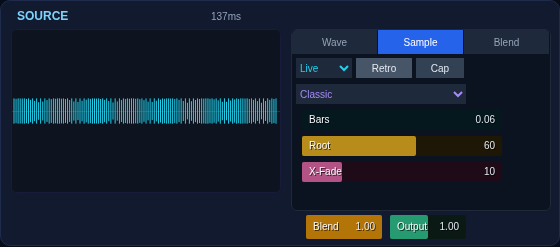
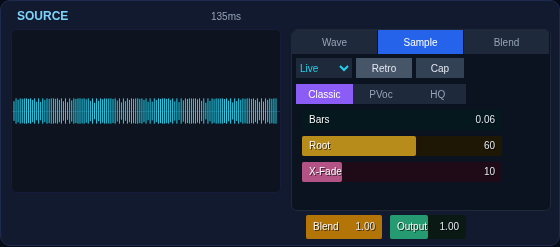
Match Main Source segmented controls to original panel

diff --git a/web/public/main-looper-review.html b/web/public/main-looper-review.html
@@ -6,7 +6,7 @@
 <header><div class="eyebrow">Manifold v2 / correction checkpoint / 27 September 2026</div><h1>Main looper port:<br>what is actually here.</h1><p>The earlier link opened a standalone looper study, and I called it the Main instrument. That was inaccurate. This page tracks the original looper behaviors and the Live and layer Sample source connections already wired through Rust, alongside the Main instrument work still missing.</p><div class="links"><a href="/main-looper.html">Open the live looper port →</a><a href="/manifold-total-progress.html">Total progress</a><a href="/?primitive=loop-capture">Earlier loop primitive</a></div></header>
 <section><div class="figure"><img src="/main-looper-live.png" alt="Current browser looper port with Main voice bank source and four looper strips"></div><div class="caption">Current Chromium capture: the Main Rust voice bank feeds the same audio callback and four capture rings as the looper. This is a port in progress, not the complete historical Main instrument.</div></section>
 <section><h2>Capture plane correction</h2><p>The nine regions still run from 16 bars on the left to 1/16 bar on the right. Within each region, older audio is now drawn at its left edge and newer audio at its right edge. The previous browser mapping reversed the samples inside every region. A direct Wasm probe feeds 500 loud samples followed by 500 quiet samples. It confirms the first 1/16-bar bins are loud, the last bins are quiet, and the adjoining older region is empty. After a commit, the loop head remains loud and its tail remains quiet: the saved PCM has the same order as the display.</p><div class="figure"><img src="/main-looper-narrow.png" alt="The complete 1280 by 720 looper panel scaled into a 900 pixel browser window without clipping any capture region"></div><div class="caption">At 900 px the full original-size panel scales together; its transport, nine capture regions, and four layer strips remain aligned and visible.</div><p>Exact local address: <a href="http://127.0.0.1:4173/main-looper.html">http://127.0.0.1:4173/main-looper.html</a>. The path ends in <code>main-looper.html</code>; the site root opens the separate workbench.</p></section>
-<section><h2>Source module checkpoint: Wave, Sample, Blend</h2><p>The Source module now uses the original 560-pixel panel geometry: graph on the left, Wave/Sample/Blend tabs on the right, and compact slider controls from Manifold’s Lua widget renderer. Live taps dry input. L1–L4 tap each loop after its playback gate and before volume gain. Retro or Free Cap publishes a validated stereo sample to the Rust eight-voice bank. The graph reads bounded peaks from that actual sample; Wave and Blend controls target the Rust oscillator and blend modes.</p><div class="figure"><img src="/main-source-panel.png" alt="Original-style Source module with captured waveform, Sample controls and compact sliders"></div><div class="caption">Source module after Live capture: the graph displays the frozen Rust sample, while Bars, Root, X-Fade, Blend and Output use the compact slider port.</div><div class="figure"><img src="/main-live-sample.png" alt="Main looper and Source module after Live Sample capture"></div><div class="caption">The Source and four-layer looper use one Rust/Wasm audio path. The module is a working subset of the old MidiSynth rack, which remains incomplete.</div><div class="figure"><img src="/main-layer-sample.png" alt="Main looper port with L1 selected and its playback captured into the Sample voice"></div><div class="caption">The same Cap path with L1 selected. Rust tests check that the sampled PCM follows gate mute and ignores layer volume.</div><p>Try it: choose Test tone or a file as Dry input, start audio, set Bars to 1/16, click Cap with Live selected, then play a piano key. Commit a loop into L1, choose L1 in the Sample source menu, and click Cap again. Blend moves to the Sample side when capture completes.</p></section>
+<section><h2>Source module checkpoint: Wave, Sample, Blend</h2><p>The Source module now uses the original 560-pixel panel geometry: graph on the left, Wave/Sample/Blend tabs on the right, segmented Wave/Sample/Blend selectors, and compact slider controls from Manifold’s Lua widget renderer. Live taps dry input. L1–L4 tap each loop after its playback gate and before volume gain. Retro or Free Cap publishes a validated stereo sample to the Rust eight-voice bank. The graph reads bounded peaks from that actual sample; Wave and Blend controls target the Rust oscillator and blend modes.</p><div class="figure"><img src="/main-source-panel.png" alt="Original-style Source module with captured waveform, Sample controls and compact sliders"></div><div class="caption">Source module after Live capture: the graph displays the frozen Rust sample, while Bars, Root, X-Fade, Blend and Output use the compact slider port.</div><div class="figure"><img src="/main-live-sample.png" alt="Main looper and Source module after Live Sample capture"></div><div class="caption">The Source and four-layer looper use one Rust/Wasm audio path. The module is a working subset of the old MidiSynth rack, which remains incomplete.</div><div class="figure"><img src="/main-layer-sample.png" alt="Main looper port with L1 selected and its playback captured into the Sample voice"></div><div class="caption">The same Cap path with L1 selected. Rust tests check that the sampled PCM follows gate mute and ignores layer volume.</div><p>Try it: choose Test tone or a file as Dry input, start audio, set Bars to 1/16, click Cap with Live selected, then play a piano key. Commit a loop into L1, choose L1 in the Sample source menu, and click Cap again. Blend moves to the Sample side when capture completes.</p></section>
 <section><h2>Free Sample recording</h2><p>Free mode uses two presses of the original Cap control. The first marks the selected source and shows STOP with an elapsed-length readout; the second captures only the audio recorded since that press. The Rust capture keeps the original source even if selection changes, and caps long recordings to the prepared ring.</p><div class="figure"><img src="/main-free-recording.png" alt="L1 Free sample recording in progress with red STOP button and elapsed milliseconds"></div><div class="caption">L1 Free recording in Chromium with the elapsed duration visible.</div><div class="figure"><img src="/main-free-sample.png" alt="L1 Free sample completed with captured duration and Sample blend selected"></div><div class="caption">The second press published the L1 span to the Rust voice bank. Direct Wasm playback and native timing tests cover the signal path.</div></section>
 <section><h2>What is connected</h2><div class="grid"><div class="card"><strong>First Loop</strong><span>REC measures the selected layer’s input span. Stop infers legal bars and BPM nearest the Target value, then commits audio to that layer.</span></div><div class="card"><strong>Retrospective capture</strong><span>All four layers keep 30 seconds of input. The nine bar regions select recent history without a preceding REC action.</span></div><div class="card"><strong>Four playable layers</strong><span>Independent loop PCM, position, volume, mute, signed speed/reverse, seek/scrub, play/pause, and clear. Dry input and loop output mix as in Main.</span></div><div class="card"><strong>Other modes and persistence</strong><span>Free Mode quantizes at the current tempo. Traditional arms a segment for explicit fire. Both commit-based overdub length policies are in Rust. Session JSON saves four loops and controls for same-rate reopen.</span></div></div></section>
 <section><h2>Try the connected path</h2><ol class="steps"><li>Open the live port with Dry input set to None and start audio. Hold a piano key, then release it.</li><li>Click the 1/16 segment to make a retrospective loop from that note. Select another layer and repeat with a different note.</li><li>Select Test tone before starting audio again. Press REC for roughly one second, then press it again. First Loop infers BPM near Target and fills the active layer.</li><li>Select another layer, click 1/4, and hear recent input loop beside the first layer. Traditional mode arms a segment for the separate Commit armed action.</li><li>Download a session, restart audio, then open the file at the same sample rate. Waveform scrubbing, signed speed, mute, and per-layer play controls are available.</li></ol></section>

diff --git a/web/src/main-looper.js b/web/src/main-looper.js
@@ -26,6 +26,16 @@ const layerControl = (layer, id, value) => post({ type: 'layer-control', layer, 
 const command = (id, value = 0) => post({ type: 'command', id, value });
 const synthNote = (kind, note = 0, velocity = 0) => post({ type: 'synth-note', kind, note, velocity });
 const synthParameter = (id, value) => post({ type: 'synth-parameter', id, value });
+const selectedSegment = id => Number($(id).querySelector('[aria-pressed="true"]').dataset.value);
+function wireSegments(id, change) {
+  const group = $(id);
+  group.addEventListener('click', ({ target }) => {
+    const button = target.closest('button[data-value]');
+    if (!button || !group.contains(button)) return;
+    for (const option of group.querySelectorAll('button[data-value]')) option.setAttribute('aria-pressed', String(option === button));
+    change(Number(button.dataset.value));
+  });
+}
 
 const sampleBars = mountCompactSlider($('sample-bars'), { label: 'Bars', min: .0625, max: 16,
   step: .0625, value: 1, style: { colour: '#22d3ee', bg: '#08212a' } });
@@ -549,14 +559,14 @@ async function start() {
     synthParameter(0, Number($('synth-wave').value));
     synthParameter(1, sampleBlendValue * 2 - 1);
     synthParameter(2, 60);
-    synthParameter(3, Number($('blend-keytrack').value));
+    synthParameter(3, selectedSegment('blend-keytrack'));
     synthParameter(4, 0);
-    synthParameter(5, Number($('sample-pitch-mode').value));
+    synthParameter(5, selectedSegment('sample-pitch-mode'));
     synthParameter(6, Number($('blend-mode').value));
     synthParameter(7, .5);
     synthParameter(15, 1);
     synthParameter(16, 1);
-    synthParameter(19, $('wave-render-mode').classList.contains('add') ? 1 : 0);
+    synthParameter(19, selectedSegment('wave-render-mode'));
     synthParameter(20, .1);
     if (sourceKind === 'microphone') {
       stream = await navigator.mediaDevices.getUserMedia({ audio: { echoCancellation: false, noiseSuppression: false, autoGainControl: false } });
@@ -602,19 +612,14 @@ async function stop() {
 $('audio-button').onclick = start;
 $('source').onchange = () => { $('file-label').hidden = $('source').value !== 'file'; $('pitch-label').hidden = $('source').value !== 'oscillator'; };
 $('synth-wave').onchange = () => { synthParameter(0, Number($('synth-wave').value)); drawSourceGraph(); };
-$('wave-render-mode').onclick = () => {
-  const add = $('wave-render-mode').classList.toggle('add');
-  $('wave-render-mode').textContent = add ? 'Add' : 'Std';
-  synthParameter(19, add ? 1 : 0);
-};
-$('sample-pitch-mode').onchange = () => {
-  const mode = Number($('sample-pitch-mode').value);
+wireSegments('wave-render-mode', mode => synthParameter(19, mode));
+wireSegments('sample-pitch-mode', mode => {
   synthParameter(5, mode);
   $('sample-stretch').hidden = mode === 0;
   requestAnimationFrame(paintSampleSliders);
-};
+});
 $('blend-mode').onchange = () => synthParameter(6, Number($('blend-mode').value));
-$('blend-keytrack').onchange = () => synthParameter(3, Number($('blend-keytrack').value));
+wireSegments('blend-keytrack', mode => synthParameter(3, mode));
 $('pitch').onchange = () => { if (sourceNode?.frequency) sourceNode.frequency.setTargetAtTime(Math.max(60, Math.min(1200, Number($('pitch').value))), context.currentTime, .01); };
 $('mode').onchange = () => control(project.controls.mode, Number($('mode').value));
 $('tempo').onchange = () => control(project.controls.tempo, Number($('tempo').value));

diff --git a/web/main-looper.html b/web/main-looper.html
@@ -13,16 +13,16 @@
           <div class="source-tabbar" role="tablist" aria-label="Source sections"><button type="button" data-source-tab="wave" role="tab">Wave</button><button type="button" data-source-tab="sample" role="tab" aria-selected="true">Sample</button><button type="button" data-source-tab="blend" role="tab">Blend</button></div>
           <div id="source-wave-panel" class="source-tabpage" hidden>
             <select id="synth-wave" aria-label="Wave shape"><option value="0">Sine</option><option value="1">Saw</option><option value="2">Square</option><option value="3">Triangle</option><option value="4">Blend</option></select>
-            <button id="wave-render-mode" type="button">Std</button>
+            <div id="wave-render-mode" class="source-segments" role="group" aria-label="Wave render mode"><button type="button" data-value="0" aria-pressed="true">Std</button><button type="button" data-value="1" aria-pressed="false">Add</button></div>
           </div>
           <div id="source-sample-panel" class="source-tabpage">
             <div class="sample-source" aria-label="Main Sample capture"><select id="sample-source-select" aria-label="Sample source"><option value="0">Live</option><option value="1">L1</option><option value="2">L2</option><option value="3">L3</option><option value="4">L4</option></select><button id="sample-mode" type="button" aria-label="Sample capture mode">Retro</button><button id="sample-cap" type="button">Cap</button></div>
-            <select id="sample-pitch-mode" aria-label="Sample pitch mode"><option value="0">Classic</option><option value="1">PVoc</option><option value="2">HQ</option></select>
+            <div id="sample-pitch-mode" class="source-segments" role="group" aria-label="Sample pitch mode"><button type="button" data-value="0" aria-pressed="true">Classic</button><button type="button" data-value="1" aria-pressed="false">PVoc</button><button type="button" data-value="2" aria-pressed="false">HQ</button></div>
             <div id="sample-bars" class="source-slider"></div><div id="sample-root" class="source-slider"></div><div id="sample-xfade" class="source-slider"></div><div id="sample-stretch" class="source-slider" hidden></div>
           </div>
           <div id="source-blend-panel" class="source-tabpage" hidden>
             <select id="blend-mode" aria-label="Blend mode"><option value="0">Mix</option><option value="1">Ring</option><option value="2">FM</option><option value="3">Sync</option><option value="4">Add</option><option value="5">Morph</option></select>
-            <select id="blend-keytrack" aria-label="Blend key tracking"><option value="0">Wave</option><option value="1">Sample</option><option value="2" selected>Both</option></select>
+            <div id="blend-keytrack" class="source-segments" role="group" aria-label="Blend key tracking"><button type="button" data-value="0" aria-pressed="false">Wave</button><button type="button" data-value="1" aria-pressed="false">Sample</button><button type="button" data-value="2" aria-pressed="true">Both</button></div>
             <div id="blend-pitch" class="source-slider"></div><div id="blend-depth" class="source-slider"></div>
           </div>
         </div>

diff --git a/web/src/main-looper.css b/web/src/main-looper.css
@@ -513,15 +513,18 @@ body {
 .source-tabpage button { color: #e2e8f0; }
 .source-tabpage button:disabled, .source-tabpage select:disabled { opacity: .5; cursor: default; }
 #synth-wave { position: absolute; left: 4px; top: 4px; width: 84px; color: #38bdf8; }
+.source-segments { display: flex; height: 20px; background: #1e293b; }
+.source-segments button { flex: 1; min-width: 0; padding: 0 2px; color: #94a3b8; }
+.source-segments button[aria-pressed="true"] { background: #2563eb; color: #fff; }
 #wave-render-mode { position: absolute; left: 94px; top: 4px; width: 84px; }
-#wave-render-mode.add { background: #2563eb; color: white; }
 .sample-source { position: absolute; left: 4px; top: 4px; display: flex; align-items: center; gap: 4px; }
 #sample-source-select { width: 56px; }
 #sample-mode { width: 56px; background: #475569; }
 #sample-mode.free { background: #0ea5e9; color: #07121d; }
 #sample-cap { width: 48px; background: #334155; }
 #sample-cap.recording { background: #dc2626; color: white; }
-#sample-pitch-mode { position: absolute; left: 4px; top: 30px; width: 170px; color: #a78bfa; }
+#sample-pitch-mode { position: absolute; left: 4px; top: 30px; width: 170px; }
+#sample-pitch-mode button[aria-pressed="true"] { background: #8b5cf6; }
 .source-slider { height: 20px; cursor: ew-resize; }
 .source-slider canvas { display: block; width: 100%; height: 100%; }
 #sample-bars, #sample-root, #sample-xfade, #sample-stretch { position: absolute; left: 10px; width: 200px; }

diff --git a/docs/main-looper-migration.md b/docs/main-looper-migration.md
@@ -30,7 +30,7 @@ The five Sample source rings and one frozen publication buffer add about 66 MiB 
 
 The old `liveSampleInput` taps dry host input before the synth send. `main.lua` passes each looper layer's `gate` node as L1–L4 Sample sources; that is playback after play/pause/mute and before volume gain. `MainSampleCapture` retains all five sources in separate prepared rings, distinct from the four dry-plus-synth looper captures. Sample/Retro Cap freezes the chosen Bars window in bounded 4,096-frame pieces. Free Cap marks the selected source write position on its first press; STOP freezes the elapsed span, pinned to that source and capped to the prepared ring. Both validate and publish the sample to the eight-voice bank through bounded messages.
 
-The browser Source module follows `Main/ui/components/source_panel.ui.lua`'s 560-pixel left graph and right Wave/Sample/Blend tabs. Bars, Root, X-Fade, Stretch, Blend, Pitch, Depth, and Output use the ported compact slider from `manifold/ui/widgets/slider.lua`. The Sample graph reads bounded chronological peak summaries from the Rust voice bank after publication; it is not a JS copy of the source audio. Wave graph draws the selected oscillator shape. Browser controls only expose implemented Rust modes: the old Noise/Pulse/SuperSaw, P-Map, FFT selection, additional wave recipe/drive and blend recipe controls are omitted until their signal paths are ported. The module sits above the looper panel as a working source checkpoint; it is not the complete historical MidiSynth tab or rack.
+The browser Source module follows `Main/ui/components/source_panel.ui.lua`'s 560-pixel left graph and right Wave/Sample/Blend tabs. Wave render, Sample pitch, and Blend key tracking use the original segmented-control form. Bars, Root, X-Fade, Stretch, Blend, Pitch, Depth, and Output use the ported compact slider from `manifold/ui/widgets/slider.lua`. The Sample graph reads bounded chronological peak summaries from the Rust voice bank after publication; it is not a JS copy of the source audio. Wave graph draws the selected oscillator shape. Browser controls only expose implemented Rust modes: the old Noise/Pulse/SuperSaw, P-Map, FFT selection, additional wave recipe/drive and blend recipe controls are omitted until their signal paths are ported. The module sits above the looper panel as a working source checkpoint; it is not the complete historical MidiSynth tab or rack.
 
 Native tests verify dry-only Live capture while the synth sounds, L1 gate-before-gain capture under volume and mute changes, L4 source independence, Free recording start/stop timing, and chronological Sample graph peaks. Direct Wasm tests play the Retro and Free samples after publication and read the Source graph's peak ABI; Chromium exercises Live and L1 Retro capture, L1 Free Cap/STOP, visible sample waveform, and Wave/Sample/Blend tab switching. This does not measure physical device underruns; publication runs in the worklet message handler between blocks and allocates a new sample buffer there.
 
